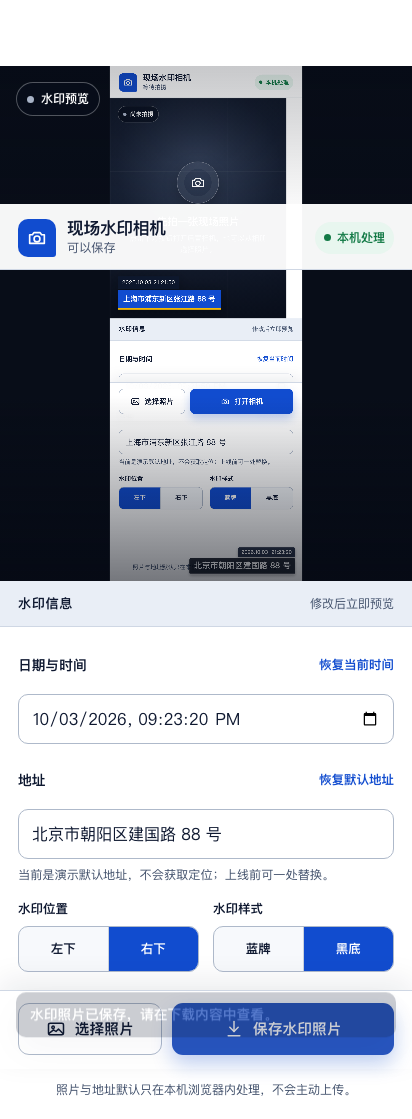
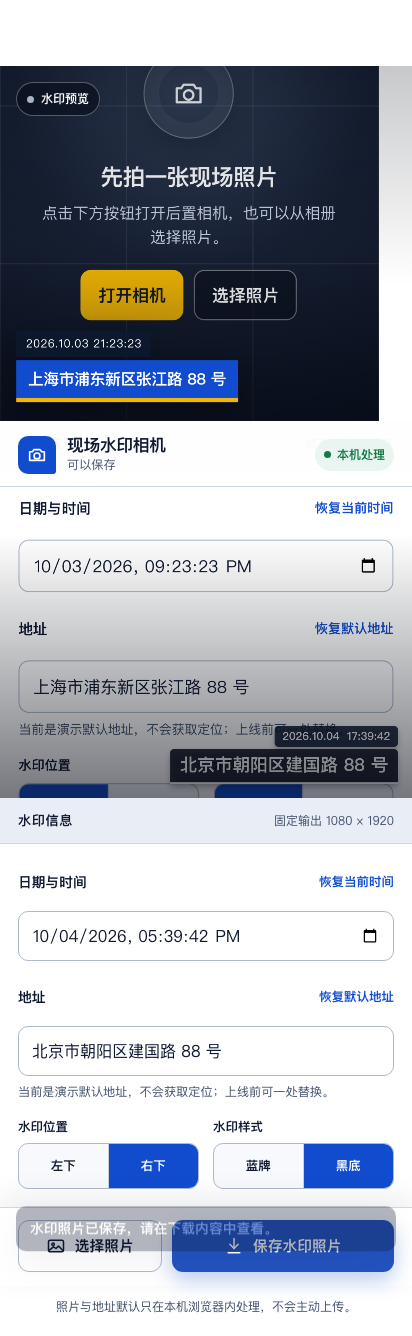
Use fixed 9 by 16 portrait output

diff --git a/dist/index.html b/dist/index.html
@@ -93,9 +93,8 @@
 
     .camera-stage {
       position: relative;
-      aspect-ratio: 4 / 5;
-      max-height: 62vh;
-      min-height: 420px;
+      aspect-ratio: 9 / 16;
+      min-height: 0;
       overflow: hidden;
       background: #111827;
       isolation: isolate;
@@ -124,6 +123,7 @@
       width: 100%; height: 100%; display: none;
       object-fit: contain; background: #080d18;
     }
+    video { object-fit: cover; }
     video.active, #previewCanvas.active { display: block; }
     #previewCanvas.stamped { animation: capture-stamp .48s cubic-bezier(.16,1,.3,1); }
 
@@ -285,7 +285,7 @@
       padding: 12px 18px max(14px, env(safe-area-inset-bottom));
       border-top: 1px solid var(--line);
       background: rgba(255,255,255,.96);
-      box-shadow: 0 -10px 30px rgba(14,24,48,.08);
+      box-shadow: 0 -10px 30px rgba(0,0,0,.08);
       backdrop-filter: blur(12px);
     }
     .btn {
@@ -329,14 +329,12 @@
       body { padding: 28px 0; }
       .app { min-height: calc(100vh - 56px); border-radius: 18px; overflow: clip; }
       .topbar { position: relative; }
-      .camera-stage { max-height: 670px; }
       .editor { scroll-padding-bottom: 0; }
     }
 
     @media (max-width: 390px) {
       .local-badge { width: 34px; height: 34px; justify-content: center; padding: 0; font-size: 0; }
       .local-badge::before { width: 9px; height: 9px; }
-      .camera-stage { min-height: 390px; }
       .settings { grid-template-columns: 1fr; }
     }
 
@@ -400,7 +398,7 @@
     <section class="editor" aria-label="水印设置">
       <div class="section-rail">
         <strong>水印信息</strong>
-        <span>修改后立即预览</span>
+        <span>固定输出 1080 × 1920</span>
       </div>
 
       <div class="fields">
@@ -461,6 +459,8 @@
       "use strict";
 
       const DEFAULT_ADDRESS = "上海市浦东新区张江路 88 号";
+      const OUTPUT_WIDTH = 1080;
+      const OUTPUT_HEIGHT = 1920;
       const state = {
         stream: null,
         hasPhoto: false,
@@ -544,6 +544,37 @@
         }
       }
 
+      function drawToPortraitFrame(source, sourceWidth, sourceHeight) {
+        const targetRatio = OUTPUT_WIDTH / OUTPUT_HEIGHT;
+        const sourceRatio = sourceWidth / sourceHeight;
+        let cropX = 0;
+        let cropY = 0;
+        let cropWidth = sourceWidth;
+        let cropHeight = sourceHeight;
+
+        if (sourceRatio > targetRatio) {
+          cropWidth = sourceHeight * targetRatio;
+          cropX = (sourceWidth - cropWidth) / 2;
+        } else {
+          cropHeight = sourceWidth / targetRatio;
+          cropY = (sourceHeight - cropHeight) / 2;
+        }
+
+        state.sourceCanvas.width = OUTPUT_WIDTH;
+        state.sourceCanvas.height = OUTPUT_HEIGHT;
+        state.sourceCanvas.getContext("2d", { alpha: false }).drawImage(
+          source,
+          cropX,
+          cropY,
+          cropWidth,
+          cropHeight,
+          0,
+          0,
+          OUTPUT_WIDTH,
+          OUTPUT_HEIGHT
+        );
+      }
+
       async function startCamera() {
         if (!navigator.mediaDevices?.getUserMedia) {
           showToast("当前浏览器无法直接打开相机，请选择照片继续。", "error");
@@ -555,7 +586,12 @@
         try {
           stopStream();
           state.stream = await navigator.mediaDevices.getUserMedia({
-            video: { facingMode: { ideal: "environment" }, width: { ideal: 1920 }, height: { ideal: 2560 } },
+            video: {
+              facingMode: { ideal: "environment" },
+              width: { ideal: OUTPUT_WIDTH },
+              height: { ideal: OUTPUT_HEIGHT },
+              aspectRatio: { ideal: OUTPUT_WIDTH / OUTPUT_HEIGHT }
+            },
             audio: false
           });
           video.srcObject = state.stream;
@@ -591,9 +627,7 @@
           return;
         }
         setStatus("loading");
-        state.sourceCanvas.width = video.videoWidth;
-        state.sourceCanvas.height = video.videoHeight;
-        state.sourceCanvas.getContext("2d", { alpha: false }).drawImage(video, 0, 0);
+        drawToPortraitFrame(video, video.videoWidth, video.videoHeight);
         stopStream();
         commitPhoto();
       }
@@ -609,11 +643,7 @@
         const url = URL.createObjectURL(file);
         const img = new Image();
         img.onload = () => {
-          const maxEdge = 4096;
-          const scale = Math.min(1, maxEdge / Math.max(img.naturalWidth, img.naturalHeight));
-          state.sourceCanvas.width = Math.max(1, Math.round(img.naturalWidth * scale));
-          state.sourceCanvas.height = Math.max(1, Math.round(img.naturalHeight * scale));
-          state.sourceCanvas.getContext("2d", { alpha: false }).drawImage(img, 0, 0, state.sourceCanvas.width, state.sourceCanvas.height);
+          drawToPortraitFrame(img, img.naturalWidth, img.naturalHeight);
           URL.revokeObjectURL(url);
           stopStream();
           commitPhoto();

diff --git a/DESIGN.md b/DESIGN.md
@@ -179,7 +179,7 @@ The palette combines civic authority with field-tool clarity: blue establishes t
 
 The system is mobile-first and centered inside a single working shell. The shell fills the viewport on phones and stops at 620px on larger displays. Its primary structural inset is an 18px gutter, repeated across rails, fields, action zones, and supporting notes.
 
-Viewfinder or media surfaces may run edge to edge inside the shell and use a 4:5 frame, with overlays aligned to 16px internal offsets. Secondary information stays compact and follows a 7–14px internal rhythm. Full-width rails separate modes or groups; they should not become floating containers.
+Viewfinder or media surfaces may run edge to edge inside the shell and use a 9:16 portrait frame, with overlays aligned to 16px internal offsets. Secondary information stays compact and follows a 7–14px internal rhythm. Full-width rails separate modes or groups; they should not become floating containers.
 
 At 390px and below, dense two-column control groups collapse to one column and nonessential badge text may reduce to an icon or status dot while preserving the touch target. At 760px and above, the shell gains outer breathing room and an 18px clipped corner; sticky phone chrome returns to normal document flow.
 

diff --git a/PRODUCT.md b/PRODUCT.md
@@ -30,11 +30,12 @@ The product is used outdoors and on-site, often one-handed and under mixed light
 
 - Target recent Android Chrome and common Chromium-based Android browsers.
 - Prefer the rear camera and fall back to the system camera/photo picker.
+- Crop camera and gallery images from the center into a fixed 9:16 portrait frame and export at 1080 × 1920 pixels without stretching.
 - Do not request location permission or collect coordinates.
 - Prefill an editable address from a single configuration value.
 - Allow restoring the configured default address and current local time.
 - Generate the final JPG locally in the browser and provide save/share actions where supported.
-- Correct common phone-photo orientation and preserve useful output resolution within device memory limits.
+- Correct common phone-photo orientation and preserve the fixed 1080 × 1920 output within device memory limits.
 - Camera access requires HTTPS on most mobile browsers.
 - Open decision: the real production default address is not yet supplied. The first prototype uses a clearly replaceable demonstration address.
 

diff --git a/README.md b/README.md
@@ -11,6 +11,7 @@
 
 - 调用手机后置相机拍照
 - 从相册选择照片
+- 固定输出 1080 × 1920 的 9:16 竖版照片
 - 修改日期与时间
 - 填写和恢复默认地址
 - 蓝牌、黑底两种水印样式
